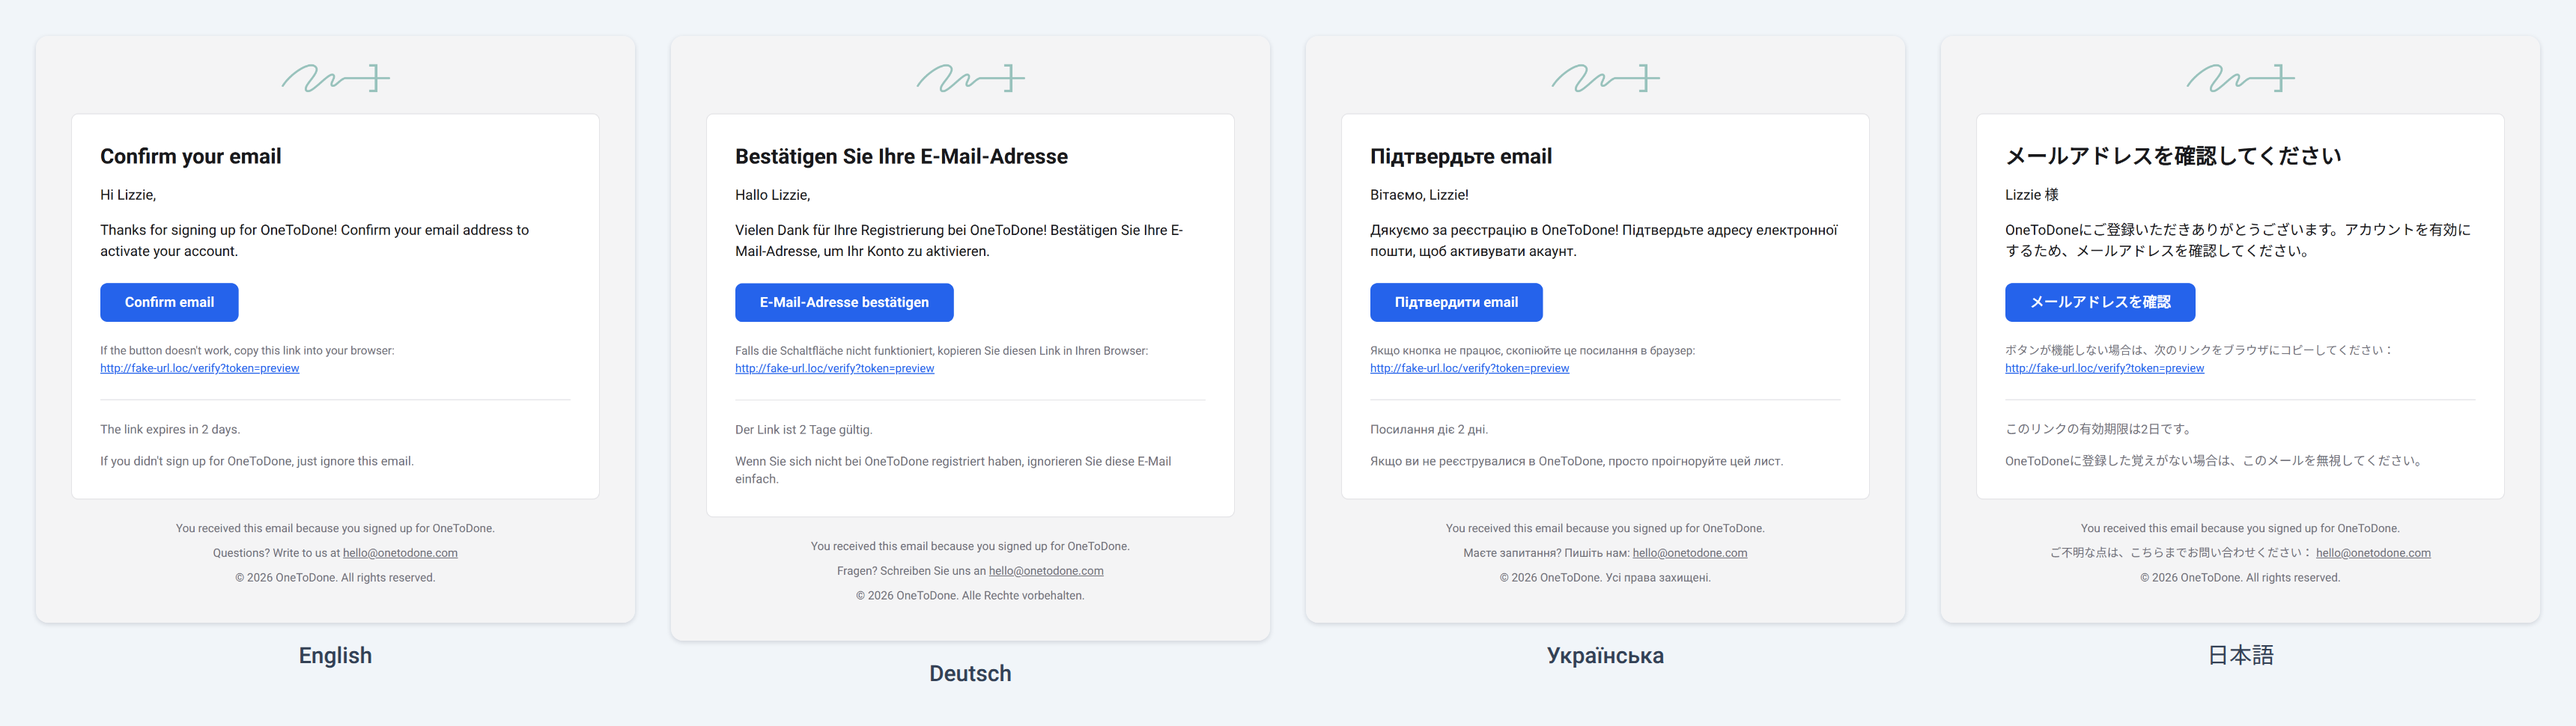
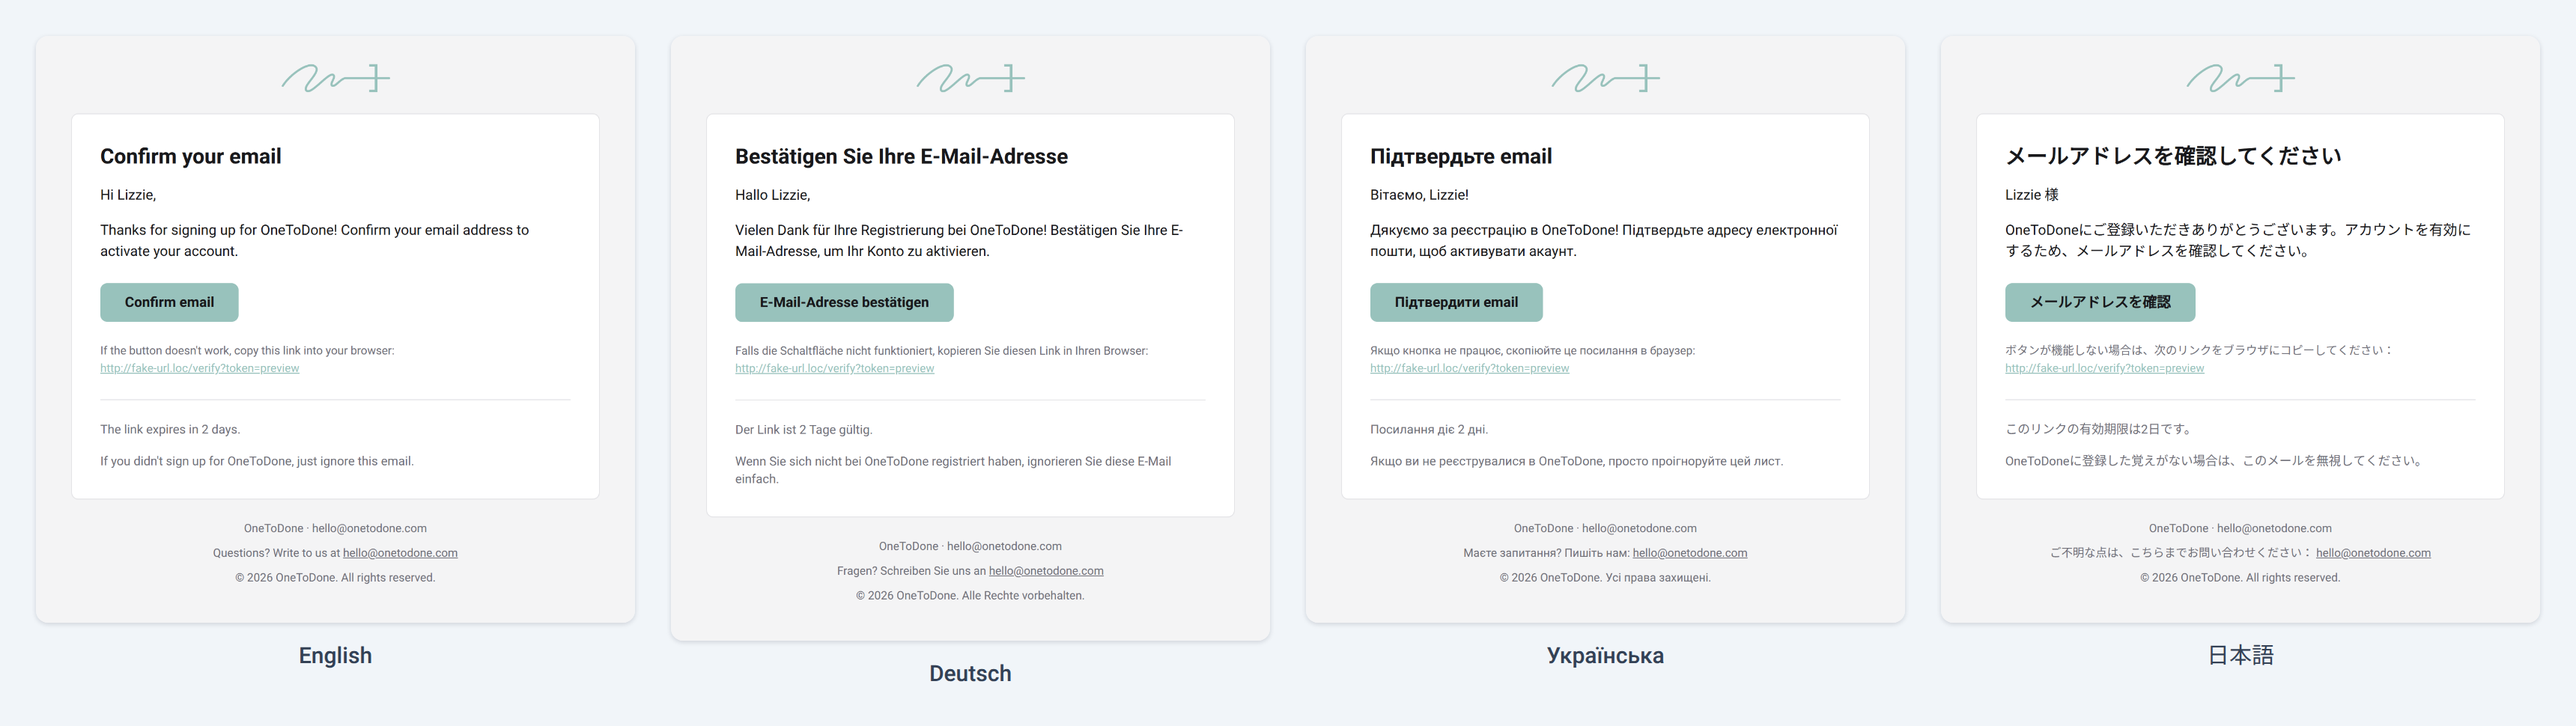
ci: deploy the email preview gallery to GitHub Pages (#31)
Pages workflow and the new preview index. No changeset.

diff --git a/scripts/preview.ts b/scripts/preview.ts
@@ -1,17 +1,32 @@
-import { mkdir, rm, writeFile } from 'node:fs/promises'
+import { copyFile, mkdir, rm, writeFile } from 'node:fs/promises'
 import { join } from 'node:path'
 
-import { html, memoryTransport, type SafeHtml } from '@onetodone/mailer'
+import { html, memoryTransport, raw, type SafeHtml } from '@onetodone/mailer'
 
-import { createSampleMailer, locales, samples } from './samples.ts'
+import { branding, createSampleMailer, env, locales, brandLogo, samples } from './samples.ts'
 
 const outDir = join(import.meta.dirname, '..', '.preview')
-const mailer = createSampleMailer(memoryTransport())
+const useSampleLogo = env('LOGO_URL') === undefined
+const mailer = createSampleMailer(
+  memoryTransport(),
+  undefined,
+  useSampleLogo
+    ? { ...branding, logoUrl: brandLogo.url, logoWidth: brandLogo.width, logoHeight: brandLogo.height }
+    : branding,
+)
 
 await rm(outDir, { recursive: true, force: true })
 await mkdir(outDir)
+if (useSampleLogo) await copyFile(brandLogo.file, join(outDir, 'logo.png'))
 
-const rows: SafeHtml[] = []
+interface Entry {
+  readonly slug: string
+  readonly template: string
+  readonly files: readonly { readonly name: string; readonly href: string }[]
+  readonly subjects: Readonly<Record<string, string>>
+}
+
+const entries: Entry[] = []
 for (const sample of samples) {
   // Browsers cannot resolve cid: references, so inline images point to the written files instead.
   const files = (sample.attachments ?? []).map((attachment) => ({
@@ -20,25 +35,50 @@ for (const sample of samples) {
   }))
   if (files.length > 0) await mkdir(join(outDir, sample.slug))
   for (const file of files) await writeFile(join(outDir, sample.slug, file.filename), file.content)
+  const swaps = [
+    ...(useSampleLogo ? [[brandLogo.url, 'logo.png'] as const] : []),
+    ...files.flatMap((file) => (file.cid === undefined ? [] : [[`cid:${file.cid}`, file.href] as const])),
+  ]
 
+  const subjects: Record<string, string> = {}
   for (const locale of locales) {
     const email = await mailer.render(sample.template, { locale, props: sample.props })
     const name = `${sample.slug}.${locale}`
-    const page = files.reduce(
-      (markup, file) => (file.cid === undefined ? markup : markup.replaceAll(`"cid:${file.cid}"`, `"${file.href}"`)),
-      email.html,
-    )
+    const page = swaps.reduce((markup, [from, to]) => markup.replaceAll(`"${from}"`, `"${to}"`), email.html)
     await writeFile(join(outDir, `${name}.html`), page)
     await writeFile(join(outDir, `${name}.txt`), `Subject: ${email.subject}\n\n${email.text}`)
-    const links = files.map((file) => html` · <a href="${file.href}">${file.filename}</a>`)
-    rows.push(html`<tr>
-<td>${sample.slug}</td>
-<td>${locale}</td>
-<td>${email.subject}</td>
-<td><a href="${name}.html">HTML</a> · <a href="${name}.txt">Text</a>${links}</td>
-</tr>`)
+    subjects[locale] = email.subject
   }
+  entries.push({
+    slug: sample.slug,
+    template: sample.template,
+    files: files.map((file) => ({ name: file.filename, href: file.href })),
+    subjects,
+  })
 }
+
+const [firstLocale = 'en'] = locales
+const [first] = entries
+const groups = [...new Set(entries.map((entry) => entry.template))].map((template) => ({
+  template,
+  entries: entries.filter((entry) => entry.template === template),
+}))
+
+function variant(entry: Entry): string {
+  if (entry.slug.endsWith('-minimal')) return 'Minimal props'
+  return entry.template === 'media' ? 'Custom template' : 'All props'
+}
+
+const nav: SafeHtml[] = groups.map(
+  (group) =>
+    html`<li><span class="template">${group.template}</span><ul>${group.entries.map(
+      (entry) =>
+        html`<li><a href="${entry.slug}.${firstLocale}.html" target="viewer" data-slug="${entry.slug}">${variant(entry)}</a></li>`,
+    )}</ul></li>`,
+)
+const options = locales.map((locale) => html`<option value="${locale}">${locale}</option>`)
+// Inside <script>, entities are not decoded, so the JSON is inserted raw with "<" escaped.
+const data = raw(JSON.stringify(entries).replaceAll('<', '\\u003c'))
 
 const index = html`<!doctype html>
 <html lang="en">
@@ -46,24 +86,83 @@ const index = html`<!doctype html>
 <meta charset="utf-8">
 <meta name="viewport" content="width=device-width, initial-scale=1">
 <meta name="color-scheme" content="light dark">
-<title>Email preview</title>
+<title>Email preview · @onetodone/mailer</title>
 <style>
-body { font-family: system-ui, sans-serif; margin: 2rem 1rem; }
-table { border-collapse: collapse; }
-th, td { padding: 0.5rem 1rem; text-align: left; border-bottom: 1px solid #8886; }
+:root { --text: #0f172a; --muted: #64748b; --line: #e2e8f0; --panel: #f8fafc; --accent: #2563eb; --bg: #fff; }
+@media (prefers-color-scheme: dark) { :root { --text: #e2e8f0; --muted: #94a3b8; --line: #334155; --panel: #0f172a; --accent: #60a5fa; --bg: #020617; } }
+* { box-sizing: border-box; }
+body { display: flex; flex-direction: column; height: 100vh; margin: 0; font: 15px/1.5 system-ui, sans-serif; color: var(--text); background: var(--bg); }
+header { display: flex; flex-wrap: wrap; align-items: center; gap: 0.5rem 1.5rem; padding: 1rem; border-bottom: 1px solid var(--line); }
+header h1 { margin: 0; font-size: 1.15rem; }
+header p { margin: 0; color: var(--muted); flex: 1 1 20rem; }
+a { color: var(--accent); }
+.layout { display: grid; flex: 1; min-height: 0; grid-template-columns: 16rem 1fr; }
+nav { padding: 1rem; border-right: 1px solid var(--line); background: var(--panel); overflow: auto; }
+nav ul { list-style: none; margin: 0; padding: 0; }
+nav > ul > li { margin-bottom: 0.75rem; }
+.template { font-family: ui-monospace, monospace; font-size: 0.9rem; }
+nav ul ul a { display: block; padding: 0.1rem 0.75rem; border-radius: 4px; text-decoration: none; color: var(--muted); }
+nav ul ul a[aria-current="true"] { background: var(--accent); color: var(--bg); }
+main { display: flex; flex-direction: column; min-width: 0; }
+.meta { display: flex; flex-wrap: wrap; gap: 0.25rem 1rem; padding: 0.75rem 1rem; border-bottom: 1px solid var(--line); }
+.meta strong { flex: 1 1 100%; }
+#files { display: flex; flex-wrap: wrap; gap: 0.25rem 1rem; }
+iframe { flex: 1; width: 100%; border: 0; background: #fff; }
+@media (max-width: 720px) { body { height: auto; } .layout { grid-template-columns: 1fr; } nav { border-right: 0; border-bottom: 1px solid var(--line); max-height: 40vh; } iframe { flex: none; height: 80vh; } }
 </style>
 </head>
 <body>
+<header>
 <h1>Email preview</h1>
-<table>
-<thead><tr><th>Email</th><th>Locale</th><th>Subject</th><th>Files</th></tr></thead>
-<tbody>
-${rows}
-</tbody>
-</table>
+<p>Every sample email of <a href="https://www.npmjs.com/package/@onetodone/mailer">@onetodone/mailer</a> in every built-in locale, rendered with sample data.</p>
+<label>Locale <select id="locale">${options}</select></label>
+</header>
+<div class="layout">
+<nav><ul>${nav}</ul></nav>
+<main>
+<div class="meta"><strong id="subject">${first?.subjects[firstLocale] ?? ''}</strong><a id="html" href="${first?.slug ?? ''}.${firstLocale}.html">HTML</a><a id="text" href="${first?.slug ?? ''}.${firstLocale}.txt">Plain text</a><span id="files"></span></div>
+<iframe name="viewer" title="Email" src="${first?.slug ?? ''}.${firstLocale}.html"></iframe>
+</main>
+</div>
+<script type="application/json" id="data">${data}</script>
+<script>
+const entries = JSON.parse(document.getElementById('data').textContent)
+const select = document.getElementById('locale')
+const frame = document.querySelector('iframe')
+let current = entries[0]?.slug
+
+function show(slug, locale) {
+  const entry = entries.find((item) => item.slug === slug) ?? entries[0]
+  if (!entry || !(locale in entry.subjects)) return
+  current = entry.slug
+  select.value = locale
+  const name = entry.slug + '.' + locale
+  frame.src = name + '.html'
+  document.getElementById('subject').textContent = entry.subjects[locale]
+  document.getElementById('html').href = name + '.html'
+  document.getElementById('text').href = name + '.txt'
+  const files = document.getElementById('files')
+  files.replaceChildren(...entry.files.map((file) => Object.assign(document.createElement('a'), { href: file.href, textContent: file.name })))
+  for (const link of document.querySelectorAll('nav a')) {
+    link.href = link.dataset.slug + '.' + locale + '.html'
+    link.setAttribute('aria-current', String(link.dataset.slug === current))
+  }
+  history.replaceState(null, '', '#' + name)
+}
+
+for (const link of document.querySelectorAll('nav a')) {
+  link.addEventListener('click', (event) => {
+    event.preventDefault()
+    show(link.dataset.slug, select.value)
+  })
+}
+select.addEventListener('change', () => show(current, select.value))
+const [slug, locale] = location.hash.slice(1).split('.')
+show(slug ?? current, locale ?? select.value)
+</script>
 </body>
 </html>
 `
 await writeFile(join(outDir, 'index.html'), index.toString())
 
-console.log(`Rendered ${String(rows.length)} emails to .preview/index.html`)
+console.log(`Rendered ${String(entries.length * locales.length)} emails to .preview/index.html`)

diff --git a/scripts/screenshots.ts b/scripts/screenshots.ts
@@ -5,22 +5,21 @@ import { dirname, join } from 'node:path'
 import { html, memoryTransport, type Branding, type Locale } from '@onetodone/mailer'
 import { chromium, type Browser } from 'playwright'
 
-import { branding, createSampleMailer, samples, type Sample } from './samples.ts'
+import { branding, createSampleMailer, brandLogo, samples, type Sample } from './samples.ts'
 
 const outDir = join(import.meta.dirname, '..', 'docs', 'images')
 
 // Rendered HTML references these URLs; the script swaps them for data: URIs so pages load without network.
-const logoUrl = 'https://example.com/logo.png'
+const logoUrl = brandLogo.url
 const bannerUrl = 'https://example.com/banner.png'
 
 const brands = {
   plain: { ...branding, logoUrl: undefined, logoWidth: undefined, logoHeight: undefined },
-  default: { ...branding, logoUrl, logoWidth: 123, logoHeight: 32 },
   custom: {
     ...branding,
     logoUrl,
-    logoWidth: 123,
-    logoHeight: 32,
+    logoWidth: brandLogo.width,
+    logoHeight: brandLogo.height,
     footerText: 'OneToDone · hello@onetodone.com',
     theme: { primary: '#98c2bc' },
   },
@@ -77,14 +76,14 @@ const shots: readonly Shot[] = [
     name: 'locales',
     viewport: 'desktop',
     emails: [
-      { slug: 'verify-email', brand: 'default', locale: 'en', caption: 'English' },
-      { slug: 'verify-email', brand: 'default', locale: 'de', caption: 'Deutsch' },
-      { slug: 'verify-email', brand: 'default', locale: 'uk', caption: 'Українська' },
-      { slug: 'verify-email', brand: 'default', locale: 'ja', caption: '日本語' },
+      { slug: 'verify-email', brand: 'custom', locale: 'en', caption: 'English' },
+      { slug: 'verify-email', brand: 'custom', locale: 'de', caption: 'Deutsch' },
+      { slug: 'verify-email', brand: 'custom', locale: 'uk', caption: 'Українська' },
+      { slug: 'verify-email', brand: 'custom', locale: 'ja', caption: '日本語' },
     ],
   },
   { name: 'mobile', viewport: 'mobile', emails: [{ slug: 'otp-code', brand: 'custom' }] },
-  { name: 'custom-template', viewport: 'desktop', emails: [{ slug: 'media', brand: 'default' }] },
+  { name: 'custom-template', viewport: 'desktop', emails: [{ slug: 'media', brand: 'custom' }] },
   ...featured.map((sample): Shot => ({
     name: `templates/${sample.slug}`,
     viewport: 'desktop',
@@ -216,7 +215,7 @@ figcaption { margin-top: 12px; text-align: center; font: 500 15px/1.4 Roboto, 'N
 async function main(): Promise<void> {
   const selected = selectShots(process.argv.slice(2))
   warnAboutFonts()
-  const logo = dataUri('image/png', await readFile(join(import.meta.dirname, 'assets', 'logo.png')))
+  const logo = dataUri('image/png', await readFile(brandLogo.file))
   const browser = await chromium.launch()
   try {
     for (const shot of selected) {

diff --git a/scripts/samples.ts b/scripts/samples.ts
@@ -48,6 +48,15 @@ export const branding: Branding = {
   footerText: 'You received this email because you signed up for OneToDone.',
 }
 
+// The OneToDone logo. Without LOGO_URL, the preview and the screenshots render with its public URL
+// and then swap it for the local file, so they work offline and before the file reaches main.
+export const brandLogo = {
+  url: 'https://raw.githubusercontent.com/onetodone/mailer/main/scripts/assets/logo.png',
+  file: join(import.meta.dirname, 'assets', 'logo.png'),
+  width: 123,
+  height: 32,
+} as const
+
 export const from: MailAddress = { name: 'OneToDone', address: 'hello@onetodone.com' }
 
 // A record keyed by Locale makes a locale missing from this list a type error.
